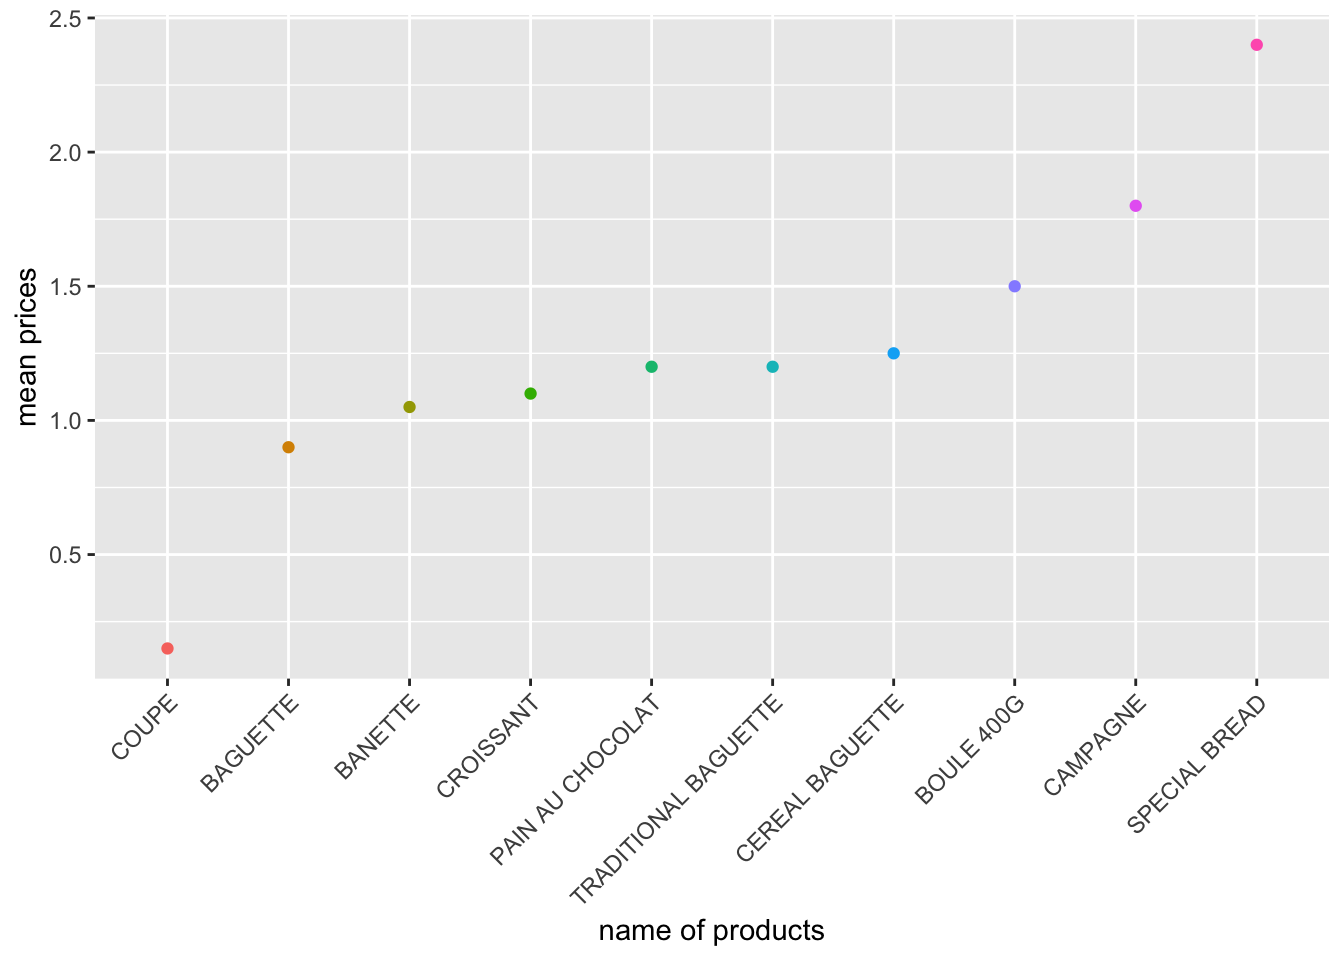
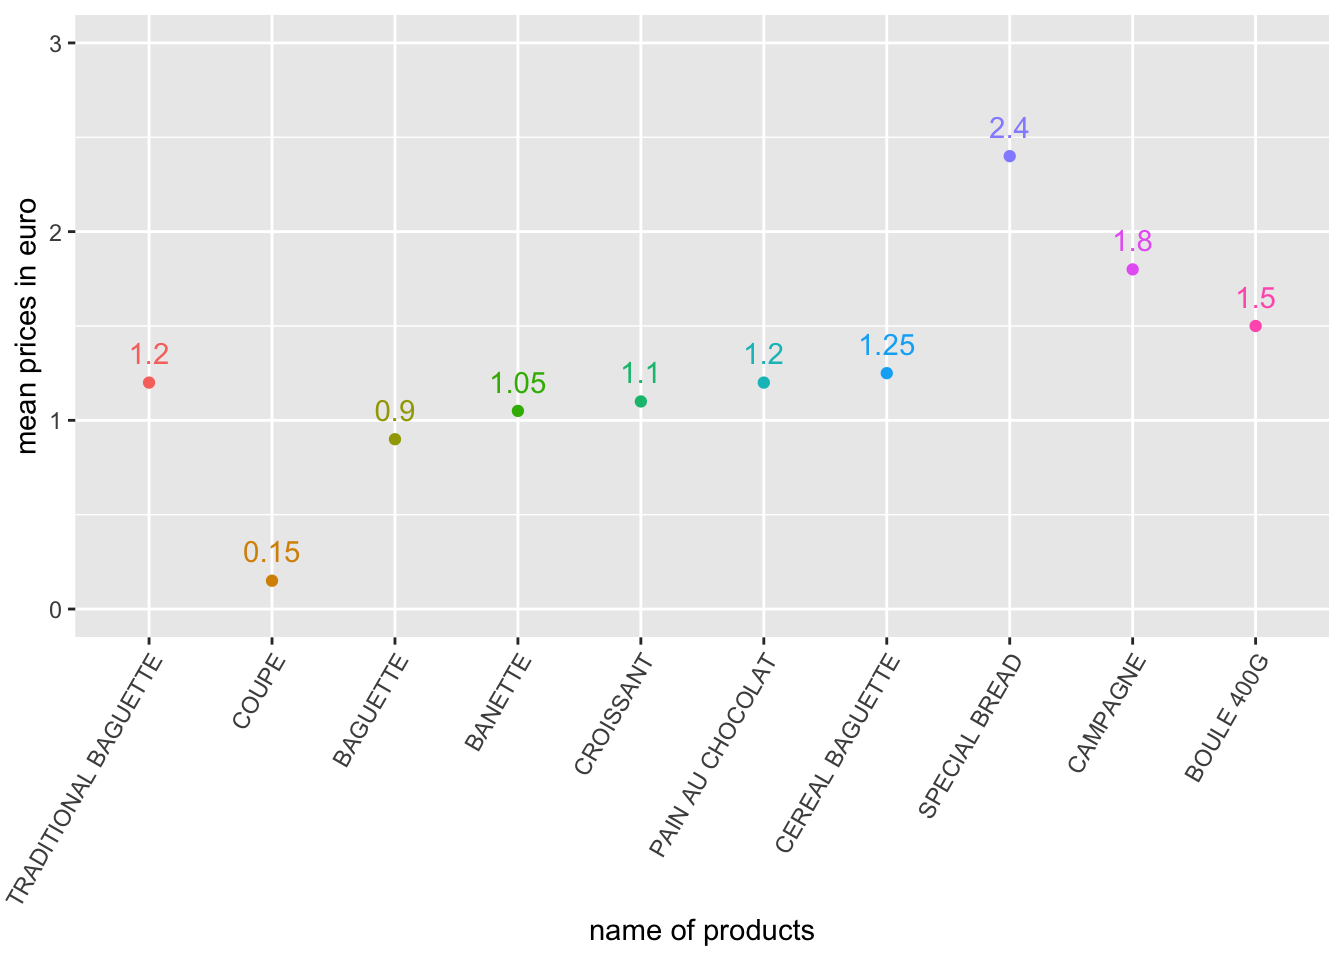
updated ranking of mean prices of top 10 products in 2021: changed x-axis

diff --git a/plot.html b/plot.html
@@ -447,8 +447,8 @@ the missing data via <code>filter()</code> and <code>article</code> via
          yaxis = list(showgrid = FALSE, zeroline = FALSE, showticklabels = FALSE))
 
 plot_pie</code></pre>
-<div id="htmlwidget-0cc8a1f7d8fd7e250b12" style="width:672px;height:480px;" class="plotly html-widget"></div>
-<script type="application/json" data-for="htmlwidget-0cc8a1f7d8fd7e250b12">{"x":{"visdat":{"b32845baf35f":["function () ","plotlyVisDat"]},"cur_data":"b32845baf35f","attrs":{"b32845baf35f":{"labels":{},"values":{},"colors":"viridis","alpha_stroke":1,"sizes":[10,100],"spans":[1,20],"type":"pie"}},"layout":{"margin":{"b":40,"l":60,"t":25,"r":10},"xaxis":{"showgrid":false,"zeroline":false,"showticklabels":false},"yaxis":{"showgrid":false,"zeroline":false,"showticklabels":false},"hovermode":"closest","showlegend":true},"source":"A","config":{"modeBarButtonsToAdd":["hoverclosest","hovercompare"],"showSendToCloud":false},"data":[{"labels":["TRADITIONAL BAGUETTE","COUPE","BAGUETTE","BANETTE","CROISSANT","PAIN AU CHOCOLAT","SPECIAL BREAD","CEREAL BAGUETTE","FORMULE SANDWICH","BOULE 400G"],"values":[67689,20470,15292,15130,11508,10578,5195,4961,4202,4099],"type":"pie","marker":{"color":"rgba(31,119,180,1)","line":{"color":"rgba(255,255,255,1)"}},"frame":null}],"highlight":{"on":"plotly_click","persistent":false,"dynamic":false,"selectize":false,"opacityDim":0.2,"selected":{"opacity":1},"debounce":0},"shinyEvents":["plotly_hover","plotly_click","plotly_selected","plotly_relayout","plotly_brushed","plotly_brushing","plotly_clickannotation","plotly_doubleclick","plotly_deselect","plotly_afterplot","plotly_sunburstclick"],"base_url":"https://plot.ly"},"evals":[],"jsHooks":[]}</script>
+<div id="htmlwidget-2b509985aca60244ee0a" style="width:672px;height:480px;" class="plotly html-widget"></div>
+<script type="application/json" data-for="htmlwidget-2b509985aca60244ee0a">{"x":{"visdat":{"b7a860e56851":["function () ","plotlyVisDat"]},"cur_data":"b7a860e56851","attrs":{"b7a860e56851":{"labels":{},"values":{},"colors":"viridis","alpha_stroke":1,"sizes":[10,100],"spans":[1,20],"type":"pie"}},"layout":{"margin":{"b":40,"l":60,"t":25,"r":10},"xaxis":{"showgrid":false,"zeroline":false,"showticklabels":false},"yaxis":{"showgrid":false,"zeroline":false,"showticklabels":false},"hovermode":"closest","showlegend":true},"source":"A","config":{"modeBarButtonsToAdd":["hoverclosest","hovercompare"],"showSendToCloud":false},"data":[{"labels":["TRADITIONAL BAGUETTE","COUPE","BAGUETTE","BANETTE","CROISSANT","PAIN AU CHOCOLAT","SPECIAL BREAD","CEREAL BAGUETTE","FORMULE SANDWICH","BOULE 400G"],"values":[67689,20470,15292,15130,11508,10578,5195,4961,4202,4099],"type":"pie","marker":{"color":"rgba(31,119,180,1)","line":{"color":"rgba(255,255,255,1)"}},"frame":null}],"highlight":{"on":"plotly_click","persistent":false,"dynamic":false,"selectize":false,"opacityDim":0.2,"selected":{"opacity":1},"debounce":0},"shinyEvents":["plotly_hover","plotly_click","plotly_selected","plotly_relayout","plotly_brushed","plotly_brushing","plotly_clickannotation","plotly_doubleclick","plotly_deselect","plotly_afterplot","plotly_sunburstclick"],"base_url":"https://plot.ly"},"evals":[],"jsHooks":[]}</script>
 <p>The pie chart shows the total of sale counts of top 10 favorite
 bakery types from 2021-01-01 to 2022-09-30. As the plot shows that the
 <code>TRADITIONAL BAGUETTE</code> (67,689; 42.5%) is the most favorite
@@ -500,11 +500,11 @@ plot_pie_2022 =
          yaxis = list(showgrid = FALSE, zeroline = FALSE, showticklabels = FALSE))
 
 plot_pie_2021</code></pre>
-<div id="htmlwidget-129753dc72f85dadfc80" style="width:672px;height:480px;" class="plotly html-widget"></div>
-<script type="application/json" data-for="htmlwidget-129753dc72f85dadfc80">{"x":{"visdat":{"b3286ab8b585":["function () ","plotlyVisDat"]},"cur_data":"b3286ab8b585","attrs":{"b3286ab8b585":{"labels":{},"values":{},"alpha_stroke":1,"sizes":[10,100],"spans":[1,20],"type":"pie","hole":0.6,"inherit":true}},"layout":{"margin":{"b":40,"l":60,"t":25,"r":10},"title":"Top 10 favoriate bakeries in 2021","xaxis":{"showgrid":false,"zeroline":false,"showticklabels":false},"yaxis":{"showgrid":false,"zeroline":false,"showticklabels":false},"hovermode":"closest","showlegend":true},"source":"A","config":{"modeBarButtonsToAdd":["hoverclosest","hovercompare"],"showSendToCloud":false},"data":[{"labels":["TRADITIONAL BAGUETTE","COUPE","BAGUETTE","BANETTE","CROISSANT","PAIN AU CHOCOLAT","CEREAL BAGUETTE","SPECIAL BREAD","CAMPAGNE","BOULE 400G"],"values":[37399,11759,8713,8575,6291,5739,3070,2936,2289,2283],"type":"pie","hole":0.6,"marker":{"color":"rgba(31,119,180,1)","line":{"color":"rgba(255,255,255,1)"}},"frame":null}],"highlight":{"on":"plotly_click","persistent":false,"dynamic":false,"selectize":false,"opacityDim":0.2,"selected":{"opacity":1},"debounce":0},"shinyEvents":["plotly_hover","plotly_click","plotly_selected","plotly_relayout","plotly_brushed","plotly_brushing","plotly_clickannotation","plotly_doubleclick","plotly_deselect","plotly_afterplot","plotly_sunburstclick"],"base_url":"https://plot.ly"},"evals":[],"jsHooks":[]}</script>
+<div id="htmlwidget-dbb5aac3d1540ffa73a4" style="width:672px;height:480px;" class="plotly html-widget"></div>
+<script type="application/json" data-for="htmlwidget-dbb5aac3d1540ffa73a4">{"x":{"visdat":{"b7a820e6774":["function () ","plotlyVisDat"]},"cur_data":"b7a820e6774","attrs":{"b7a820e6774":{"labels":{},"values":{},"alpha_stroke":1,"sizes":[10,100],"spans":[1,20],"type":"pie","hole":0.6,"inherit":true}},"layout":{"margin":{"b":40,"l":60,"t":25,"r":10},"title":"Top 10 favoriate bakeries in 2021","xaxis":{"showgrid":false,"zeroline":false,"showticklabels":false},"yaxis":{"showgrid":false,"zeroline":false,"showticklabels":false},"hovermode":"closest","showlegend":true},"source":"A","config":{"modeBarButtonsToAdd":["hoverclosest","hovercompare"],"showSendToCloud":false},"data":[{"labels":["TRADITIONAL BAGUETTE","COUPE","BAGUETTE","BANETTE","CROISSANT","PAIN AU CHOCOLAT","CEREAL BAGUETTE","SPECIAL BREAD","CAMPAGNE","BOULE 400G"],"values":[37399,11759,8713,8575,6291,5739,3070,2936,2289,2283],"type":"pie","hole":0.6,"marker":{"color":"rgba(31,119,180,1)","line":{"color":"rgba(255,255,255,1)"}},"frame":null}],"highlight":{"on":"plotly_click","persistent":false,"dynamic":false,"selectize":false,"opacityDim":0.2,"selected":{"opacity":1},"debounce":0},"shinyEvents":["plotly_hover","plotly_click","plotly_selected","plotly_relayout","plotly_brushed","plotly_brushing","plotly_clickannotation","plotly_doubleclick","plotly_deselect","plotly_afterplot","plotly_sunburstclick"],"base_url":"https://plot.ly"},"evals":[],"jsHooks":[]}</script>
 <pre class="r"><code>plot_pie_2022</code></pre>
-<div id="htmlwidget-ef5f201fee081e917390" style="width:672px;height:480px;" class="plotly html-widget"></div>
-<script type="application/json" data-for="htmlwidget-ef5f201fee081e917390">{"x":{"visdat":{"b3284956580":["function () ","plotlyVisDat"]},"cur_data":"b3284956580","attrs":{"b3284956580":{"labels":{},"values":{},"alpha_stroke":1,"sizes":[10,100],"spans":[1,20],"type":"pie","hole":0.6,"inherit":true}},"layout":{"margin":{"b":40,"l":60,"t":25,"r":10},"title":"Top 10 favoriate bakeries in 2022","xaxis":{"showgrid":false,"zeroline":false,"showticklabels":false},"yaxis":{"showgrid":false,"zeroline":false,"showticklabels":false},"hovermode":"closest","showlegend":true},"source":"A","config":{"modeBarButtonsToAdd":["hoverclosest","hovercompare"],"showSendToCloud":false},"data":[{"labels":["TRADITIONAL BAGUETTE","COUPE","BAGUETTE","BANETTE","CROISSANT","PAIN AU CHOCOLAT","SPECIAL BREAD","FORMULE SANDWICH","CEREAL BAGUETTE","BOULE 400G"],"values":[30290,8711,6579,6555,5217,4839,2259,1976,1891,1816],"type":"pie","hole":0.6,"marker":{"color":"rgba(31,119,180,1)","line":{"color":"rgba(255,255,255,1)"}},"frame":null}],"highlight":{"on":"plotly_click","persistent":false,"dynamic":false,"selectize":false,"opacityDim":0.2,"selected":{"opacity":1},"debounce":0},"shinyEvents":["plotly_hover","plotly_click","plotly_selected","plotly_relayout","plotly_brushed","plotly_brushing","plotly_clickannotation","plotly_doubleclick","plotly_deselect","plotly_afterplot","plotly_sunburstclick"],"base_url":"https://plot.ly"},"evals":[],"jsHooks":[]}</script>
+<div id="htmlwidget-ce80c43aa5d62a362b74" style="width:672px;height:480px;" class="plotly html-widget"></div>
+<script type="application/json" data-for="htmlwidget-ce80c43aa5d62a362b74">{"x":{"visdat":{"b7a87fa9f1b9":["function () ","plotlyVisDat"]},"cur_data":"b7a87fa9f1b9","attrs":{"b7a87fa9f1b9":{"labels":{},"values":{},"alpha_stroke":1,"sizes":[10,100],"spans":[1,20],"type":"pie","hole":0.6,"inherit":true}},"layout":{"margin":{"b":40,"l":60,"t":25,"r":10},"title":"Top 10 favoriate bakeries in 2022","xaxis":{"showgrid":false,"zeroline":false,"showticklabels":false},"yaxis":{"showgrid":false,"zeroline":false,"showticklabels":false},"hovermode":"closest","showlegend":true},"source":"A","config":{"modeBarButtonsToAdd":["hoverclosest","hovercompare"],"showSendToCloud":false},"data":[{"labels":["TRADITIONAL BAGUETTE","COUPE","BAGUETTE","BANETTE","CROISSANT","PAIN AU CHOCOLAT","SPECIAL BREAD","FORMULE SANDWICH","CEREAL BAGUETTE","BOULE 400G"],"values":[30290,8711,6579,6555,5217,4839,2259,1976,1891,1816],"type":"pie","hole":0.6,"marker":{"color":"rgba(31,119,180,1)","line":{"color":"rgba(255,255,255,1)"}},"frame":null}],"highlight":{"on":"plotly_click","persistent":false,"dynamic":false,"selectize":false,"opacityDim":0.2,"selected":{"opacity":1},"debounce":0},"shinyEvents":["plotly_hover","plotly_click","plotly_selected","plotly_relayout","plotly_brushed","plotly_brushing","plotly_clickannotation","plotly_doubleclick","plotly_deselect","plotly_afterplot","plotly_sunburstclick"],"base_url":"https://plot.ly"},"evals":[],"jsHooks":[]}</script>
 <p>The first donut chart shows the total of sale counts of top 10
 favorite bakery types from 2021-01-01 to 2021-12-31. As the plot shows
 that the <code>TRADITIONAL BAGUETTE</code> (37,399; 42%) is the most
@@ -670,15 +670,24 @@ class="section level4">
   group_by(product_name) %&gt;% 
   summarize(mean_price = mean(unit_price)) %&gt;% 
   arrange(desc(mean_price)) %&gt;% 
-  mutate(product_name = fct_reorder(product_name, mean_price)) %&gt;% 
+  mutate(product_name = forcats::fct_relevel(product_name, c(&quot;TRADITIONAL BAGUETTE&quot;, &quot;COUPE&quot;, &quot;BAGUETTE&quot;,&quot;BANETTE&quot;, &quot;CROISSANT&quot;, &quot;PAIN AU CHOCOLAT&quot;, &quot;CEREAL BAGUETTE&quot;, &quot;SPECIAL BREAD&quot;, &quot;CAMPAGNE&quot;, &quot;BOULE 400G&quot;))) %&gt;% 
   ggplot(aes(x =product_name, y = mean_price, color = product_name)) + 
       geom_point() +
-    theme(axis.text.x = element_text(angle=45,hjust = 1), legend.position = &quot;none&quot;) + 
+      geom_text(aes(label=mean_price), vjust = 0, nudge_y = 0.1) +
+      ylim(0,3) +
+    theme(axis.text.x = element_text(angle=60,hjust = 1), legend.position = &quot;none&quot;) + 
     labs(x = &quot;name of products&quot;,
-         y = &quot;mean prices&quot;) 
+         y = &quot;mean prices in euro&quot;) 
   
 mean_price_2021 </code></pre>
 <p><img src="plot_files/figure-html/unnamed-chunk-5-1.png" width="672" /></p>
+<p>The scatter plot shows the ranking of mean prices of top 10 favorite
+bakery types in 2021, with most popularity to least popularity (top1-10)
+from the left to the right on x-axis.</p>
+<p><code>SPECIAL BREAD</code> has the highest mean price (2.4 €) while
+<code>COUPE</code> has the lowest mean price (0.15 €). The mean prices
+of <code>TRADITIONAL BAGUETTE</code> and <code>PAIN AU CHOCOLAT</code>
+are the same (1.2 €).</p>
 </div>
 </div>
 
